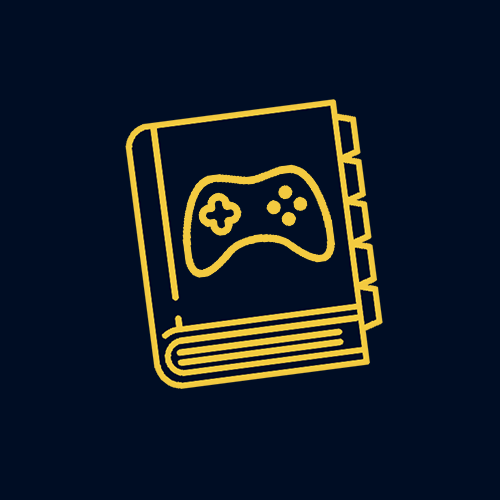
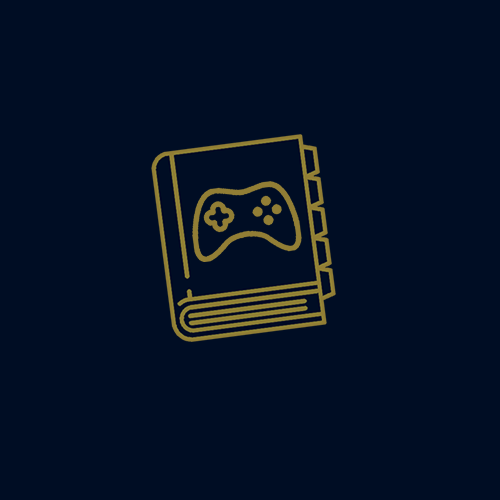
[ADD] Added 404 page and updated background image to a lower opacity version

Changed region(s): [[0.24, 0.18, 0.78, 0.78]]

diff --git a/static/js/script.js b/static/js/script.js
@@ -3,33 +3,6 @@ $(document).ready(function () {
     $(".sidenav").sidenav({edge: "right"});
     $(".collapsible").collapsible();
     $('.modal').modal();
-    validateMaterializeSelect();
-    function validateMaterializeSelect() {
-        let classValid = { "border-bottom": "1px solid #4caf50", "box-shadow": "0 1px 0 0 #4caf50" };
-        let classInvalid = { "border-bottom": "1px solid #f44336", "box-shadow": "0 1px 0 0 #f44336" };
-        if ($("select.validate").prop("required")) {
-            $("select.validate").css({ "display": "block", "height": "0", "padding": "0", "width": "0", "position": "absolute" });
-        }
-        $(".select-wrapper input.select-dropdown").on("focusin", function () {
-            $(this).parent(".select-wrapper").on("change", function () {
-                if ($(this).children("ul").children("li.selected:not(.disabled)").on("click", function () { })) {
-                    $(this).children("input").css(classValid);
-                }
-            });
-        }).on("click", function () {
-            if ($(this).parent(".select-wrapper").children("ul").children("li.selected:not(.disabled)").css("background-color") === "rgba(0, 0, 0, 0.03)") {
-                $(this).parent(".select-wrapper").children("input").css(classValid);
-            } else {
-                $(".select-wrapper input.select-dropdown").on("focusout", function () {
-                    if ($(this).parent(".select-wrapper").children("select").prop("required")) {
-                        if ($(this).css("border-bottom") != "1px solid rgb(76, 175, 80)") {
-                            $(this).parent(".select-wrapper").children("input").css(classInvalid);
-                        }
-                    }
-                });
-            }
-        });
-    }
     // Credit for making textarea validate with Regex patterns
     var errorMessage = "Please match the requested format.";
 

diff --git a/templates/profile.html b/templates/profile.html
@@ -67,7 +67,7 @@
         <div class="row gsStyle">
             <div class="col s10 offset-s1">
                 <h2 class="">You haven't submitted any terms yet. <br><br>Why not add one using the button below?</h2>
-                <a href="{{ url_for('add_term') }}" class="gsStyle buttonStyle btnAdd btnL">
+                <a href="{{ url_for('add_term') }}" class="gsStyle buttonStyle btnAdd btnM">
                     Add term <i class="fas fa-plus-square"></i>
                 </a>
             </div>

diff --git a/static/css/style.css b/static/css/style.css
@@ -220,7 +220,7 @@ button, .button {
 
 .btnCancel, .btnAdd, .btnIndex {
     padding: 1vw;
-    margin-bottom: 2vh;
+    margin: 2vh 0;
 }
 
 .btnIndex {
@@ -373,7 +373,7 @@ textarea {
 
     /* Buttons */
     .btnAdd, .btnM {
-        font-size: 5vw;
+        font-size: 4vw;
     }
 
     .termbutton {
